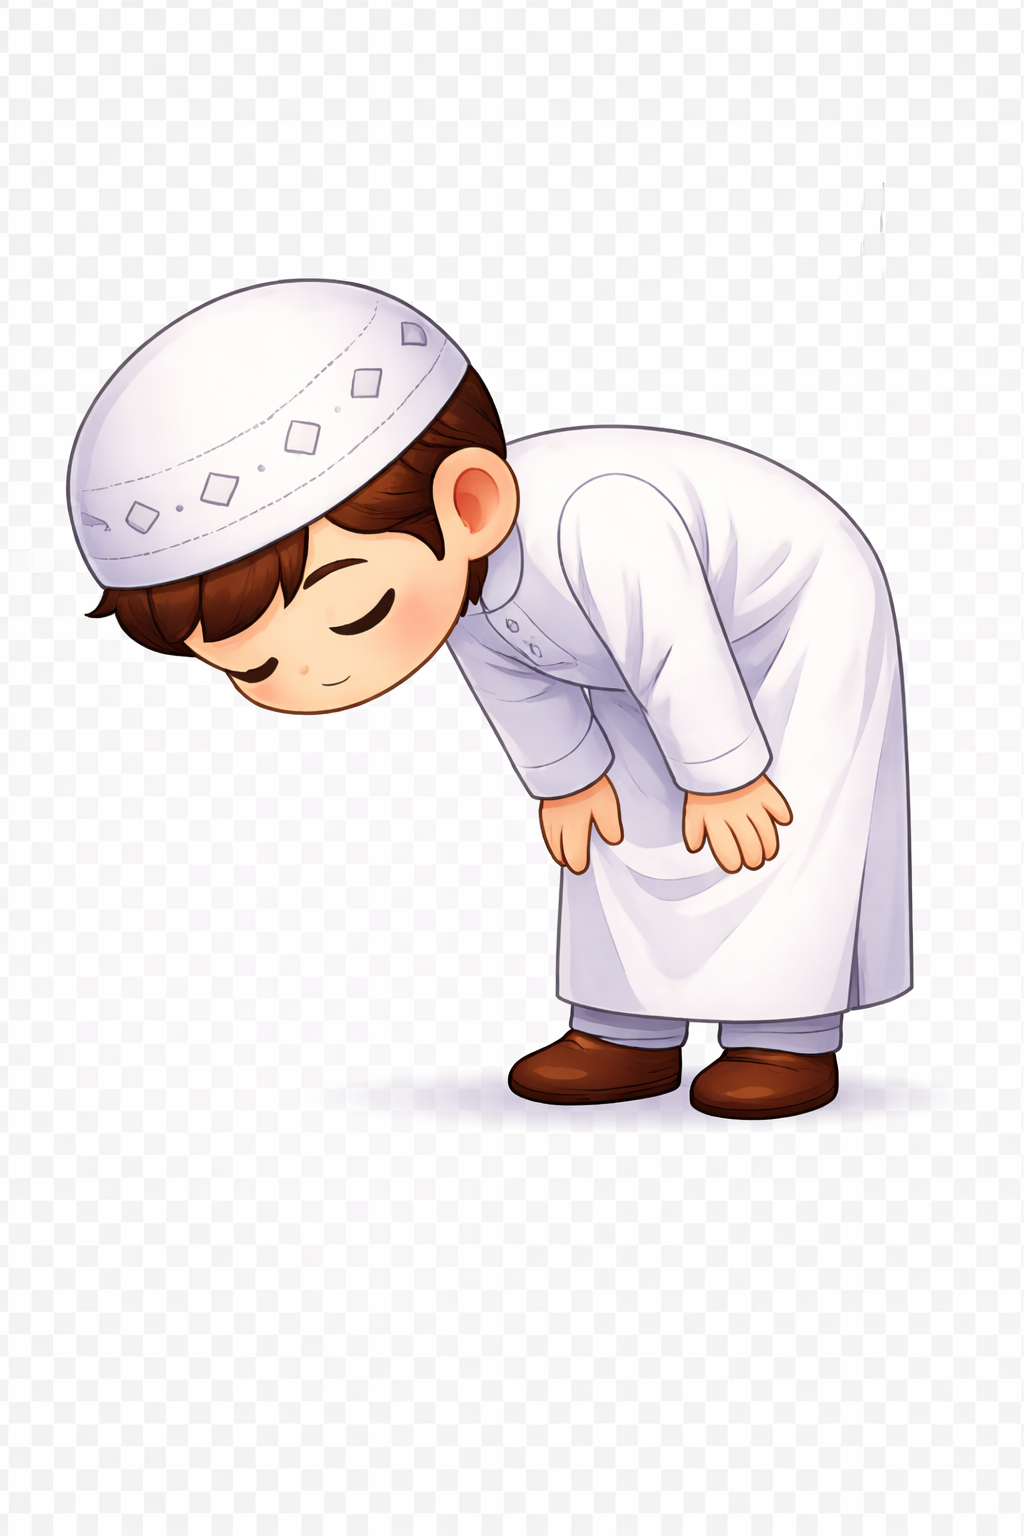
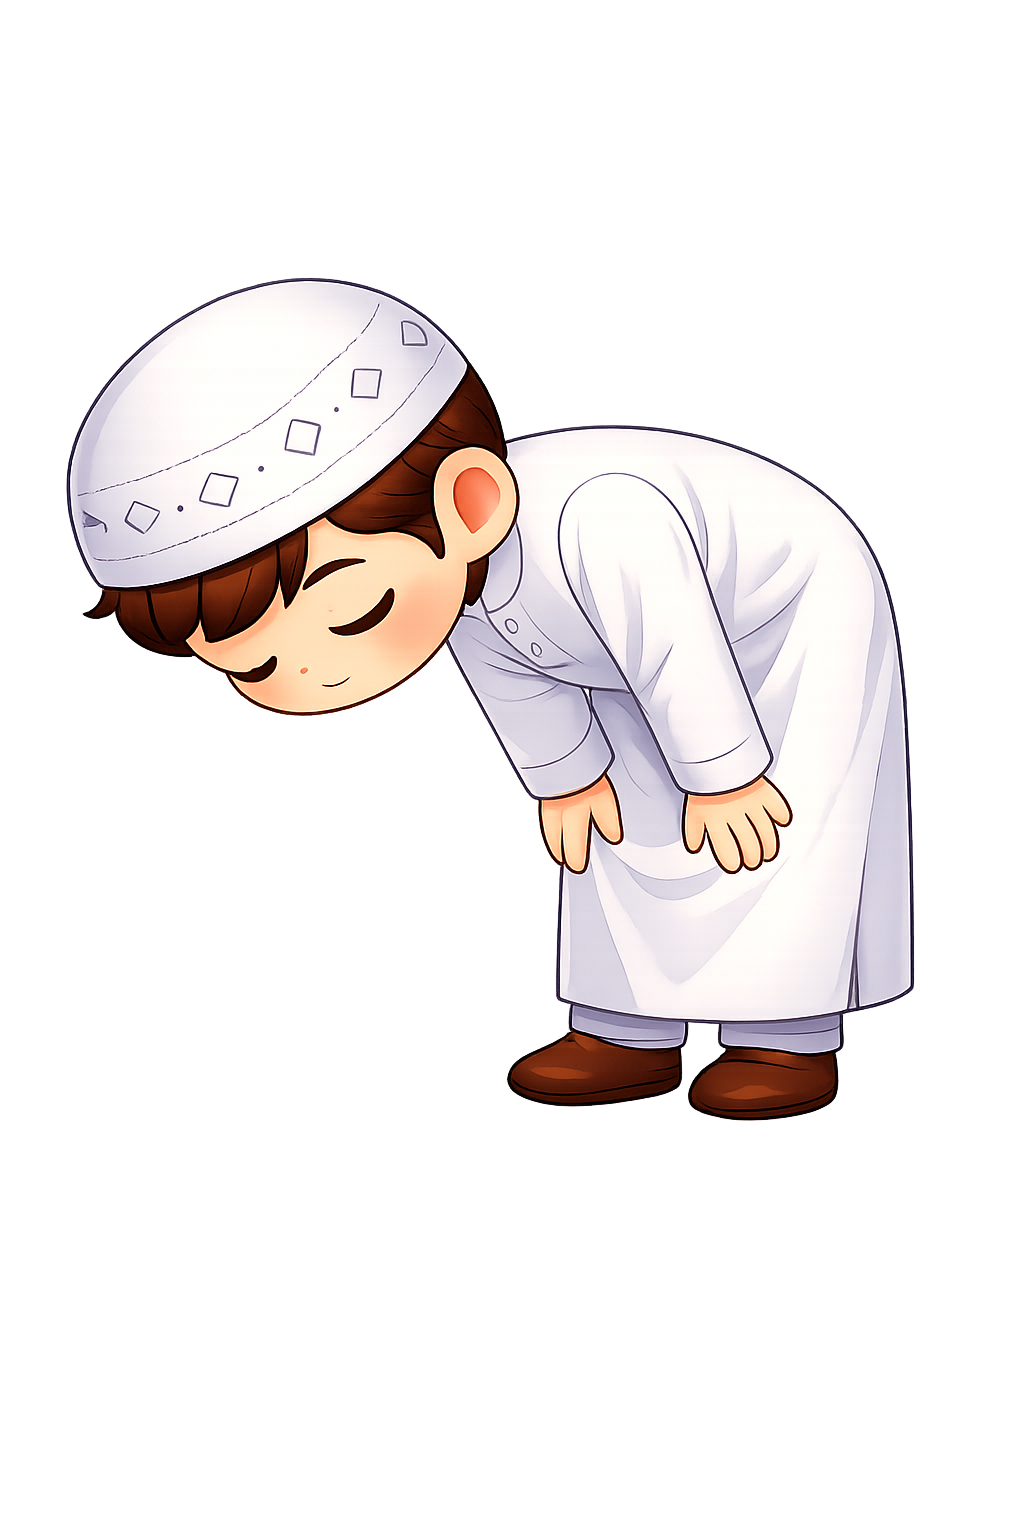
Update prayer Rakat counts and replace yusuf-ruku image
- Fajr: 4 total (2 Sunnah + 2 Fard) — was missing total field
- Dhuhr: 12 total (4S + 4F + 2S + 2N) — sunnah corrected from 4 to 6
- Asr: 8 total (4 Sunnah Ghair Mu'akkadah + 4 Fard) — sunnah corrected from 0 to 4, nafl from 4 to 0
- Maghrib: 7 total (3F + 2S + 2N) — already correct, added total field
- Isha: 17 total (4S + 4F + 2S + 2N + 3 Witr + 2N) — sunnah 2→6, nafl 3→7
- Updated prayer cards to show "{total} Rakat · {fard} Fard"
- Updated totalDescription on all prayers with full breakdown
- Replaced yusuf-ruku.png with new transparent-background version

diff --git a/src/App.jsx b/src/App.jsx
@@ -14,8 +14,8 @@ import {
 const PRAYERS = {
   Fajr: {
     arabic: 'الفجر', translit: 'Al-Fajr', meaning: 'The Dawn',
-    fard: 2, sunnah: 2, nafl: 0,
-    totalDescription: '2 Sunnah (before) + 2 Fard',
+    fard: 2, sunnah: 2, nafl: 0, total: 4,
+    totalDescription: '4 Rakat — 2 Sunnah (before) + 2 Fard',
     window: 'From true dawn until sunrise',
     description:
       'The dawn prayer, offered between the break of true dawn and sunrise. The Prophet ﷺ said its two Sunnah rakats are "better than the world and all it contains" (Sahih Muslim 725). The adhan for Fajr uniquely includes "As-salatu khayrun minan-nawm" — prayer is better than sleep.',
@@ -24,8 +24,8 @@ const PRAYERS = {
   },
   Dhuhr: {
     arabic: 'الظهر', translit: 'Adh-Dhuhr', meaning: 'The Noon',
-    fard: 4, sunnah: 4, nafl: 2,
-    totalDescription: '4 Sunnah (before) + 4 Fard + 2 Sunnah (after)',
+    fard: 4, sunnah: 6, nafl: 2, total: 12,
+    totalDescription: '12 Rakat — 4 Sunnah (before) + 4 Fard + 2 Sunnah (after) + 2 Nafl',
     window: 'From the sun\'s zenith until Asr begins',
     description:
       'The midday prayer, performed after the sun passes its zenith. On Fridays, Jumu\'ah replaces Dhuhr with a two-rakat congregational prayer preceded by a khutbah (sermon).',
@@ -34,8 +34,8 @@ const PRAYERS = {
   },
   Asr: {
     arabic: 'العصر', translit: 'Al-Asr', meaning: 'The Afternoon',
-    fard: 4, sunnah: 0, nafl: 4,
-    totalDescription: '4 Fard (4 Nafl before are optional and recommended)',
+    fard: 4, sunnah: 4, nafl: 0, total: 8,
+    totalDescription: '8 Rakat — 4 Sunnah Ghair Muʼakkadah (before) + 4 Fard',
     window: 'From mid-afternoon until sunset begins',
     description:
       'The afternoon prayer. The Prophet ﷺ said: "Whoever misses Asr, it is as if he has lost his family and property" (Sahih al-Bukhari 552). It is the "middle prayer" Allah commands us to guard (Quran 2:238 — according to the majority of scholars).',
@@ -44,8 +44,8 @@ const PRAYERS = {
   },
   Maghrib: {
     arabic: 'المغرب', translit: 'Al-Maghrib', meaning: 'The Sunset',
-    fard: 3, sunnah: 2, nafl: 2,
-    totalDescription: '3 Fard + 2 Sunnah (after) + 2 Nafl (optional)',
+    fard: 3, sunnah: 2, nafl: 2, total: 7,
+    totalDescription: '7 Rakat — 3 Fard + 2 Sunnah (after) + 2 Nafl',
     window: 'From sunset until the disappearance of red twilight',
     description:
       'The sunset prayer — the only obligatory prayer with three rakats. It begins immediately after the sun fully sets and has a relatively short window, which is why breaking fast in Ramadan is tied to this time.',
@@ -54,11 +54,11 @@ const PRAYERS = {
   },
   Isha: {
     arabic: 'العشاء', translit: 'Al-Isha', meaning: 'The Night',
-    fard: 4, sunnah: 2, nafl: 3,
-    totalDescription: '4 Fard + 2 Sunnah + 3 Witr (highly emphasized)',
+    fard: 4, sunnah: 6, nafl: 7, total: 17,
+    totalDescription: '17 Rakat — 4 Sunnah (before) + 4 Fard + 2 Sunnah (after) + 2 Nafl + 3 Witr Wajib + 2 Nafl',
     window: 'From the end of twilight until before Fajr',
     description:
-      'The night prayer, followed by the Witr prayer (1 or 3 odd-numbered rakats) which closes the day\'s worship. The Prophet ﷺ said: "Whoever prays Isha in congregation, it is as if he has stood in prayer half the night" (Sahih Muslim 656).',
+      'The night prayer, followed by the Witr prayer (3 rakats — Wajib according to the Hanafi school) which closes the day\'s worship. The Prophet ﷺ said: "Whoever prays Isha in congregation, it is as if he has stood in prayer half the night" (Sahih Muslim 656).',
     history:
       'Witr after Isha was so emphasized by the Prophet ﷺ that some scholars (Hanafi) consider it wajib (necessary). It is the last voluntary act before sleep and traditionally includes the Qunut supplication.',
   },
@@ -835,7 +835,7 @@ export default function App() {
                     <div className="font-display text-2xl">{p}</div>
                     <div className="text-sm text-gold-dim tabular-nums">{formatTime(times[p])}</div>
                     <div className="text-[10px] uppercase tracking-wider mt-2 text-gold-dim">
-                      {PRAYERS[p].fard} Fard{PRAYERS[p].sunnah > 0 ? ` · ${PRAYERS[p].sunnah} Sunnah` : ''}
+                      {PRAYERS[p].total} Rakat · {PRAYERS[p].fard} Fard
                     </div>
                     {isNext && <div className="absolute top-2 right-2 w-2 h-2 rounded-full bg-gold shimmer"></div>}
                     <ChevronRight className="absolute bottom-3 right-3 w-4 h-4 text-gold-dim opacity-0 group-hover:opacity-100 transition" />
